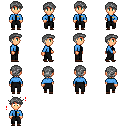
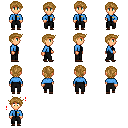
Updated map to have 3 rooms

diff --git a/index.html b/index.html
@@ -15,7 +15,7 @@
 
         canvas {
             border: 1px solid #d3d3d3;
-            background-color: #0b6909;
+            background-color: #464646;
 
             display: block;
             max-width: 100vw;
@@ -44,7 +44,7 @@
         var entities = [];
         var myScore;
 
-        var x = 0;
+        var x = 32;
         var y = 0;
         const direction_to_move = 1;
         const speed = 3;
@@ -114,8 +114,8 @@
         }
 
         const startTileX = 18;
-        const startTileY = 25;
-        
+        const startTileY = 0; // 23?
+
         const WIDTH = 37;
         const HEIGHT = 160;
 
@@ -164,8 +164,27 @@
         // ---- Construct LEVEL ---- //
 
 
+        // Draw third rooms walls
+        const room3WallHeight = 0;
+        paint(10, room3WallHeight, 17, 1, [[t.wh]]);
+        paint(9, room3WallHeight, 1, 1, [[t.wtl]]);
+        paint(27, room3WallHeight, 1, 1, [[t.wtr]]);
+        paint(9, room3WallHeight + 1, 1, 7, [[t.wv]]);
+        paint(27, room3WallHeight + 1, 1, 7, [[t.wv]]);
+
+        // Draw second rooms walls (excluding maze)
+        const room2WallHeight = room3WallHeight + 8;
+        paint(10, room2WallHeight, 7, 1, [[t.wh]]);
+        paint(20, room2WallHeight, 7, 1, [[t.wh]]);
+        paint(17, room2WallHeight, 1, 1, [[t.openDl]])
+        paint(19, room2WallHeight, 1, 1, [[t.openDr]])
+        paint(9, room2WallHeight, 1, 1, [[t.v3l]]);
+        paint(27, room2WallHeight, 1, 1, [[t.v3r]]);
+        paint(9, room2WallHeight + 1, 1, 7, [[t.wv]]);
+        paint(27, room2WallHeight + 1, 1, 7, [[t.wv]]);
+
         // Draw first/ bottom rooms walls
-        const room1WallHeight = 20;
+        const room1WallHeight = room2WallHeight + 15;
         paint(10, room1WallHeight + 1, 7, 1, [[t.wh]]);
         paint(20, room1WallHeight + 1, 7, 1, [[t.wh]]);
         paint(10, room1WallHeight, 16, 1, [[t.b1]]);
@@ -179,7 +198,7 @@
         paint(27, room1WallHeight - 7, 1, 1, [[t.v3r]])
         paint(10, room1WallHeight - 7, 7, 1, [[t.wh]])
         paint(20, room1WallHeight - 7, 7, 1, [[t.wh]])
-        //Closed door - TODO: OPEN WHEN PUZZLE SOLVED
+        //Closed door - TODO: OPEN WHEN PUZZLE SOLVED, ALSO MAKE A CLOSED DOOR LOL
         paint(17, room1WallHeight - 7, 1, 1, [[t.openDl]])
         paint(19, room1WallHeight - 7, 1, 1, [[t.openDr]])
 
